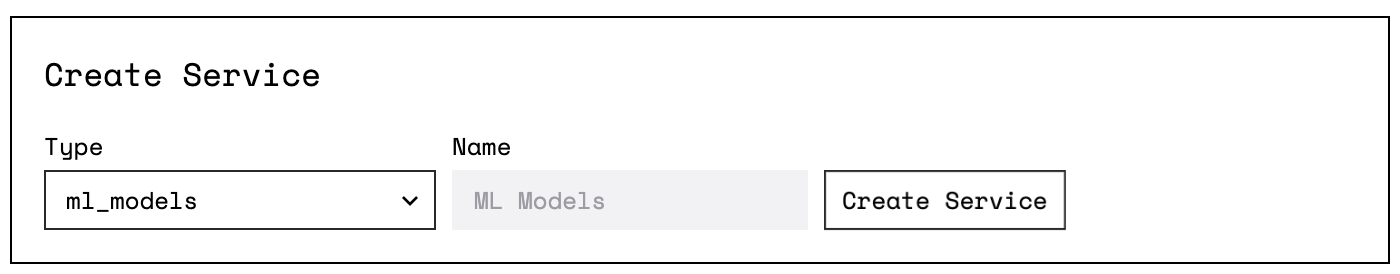
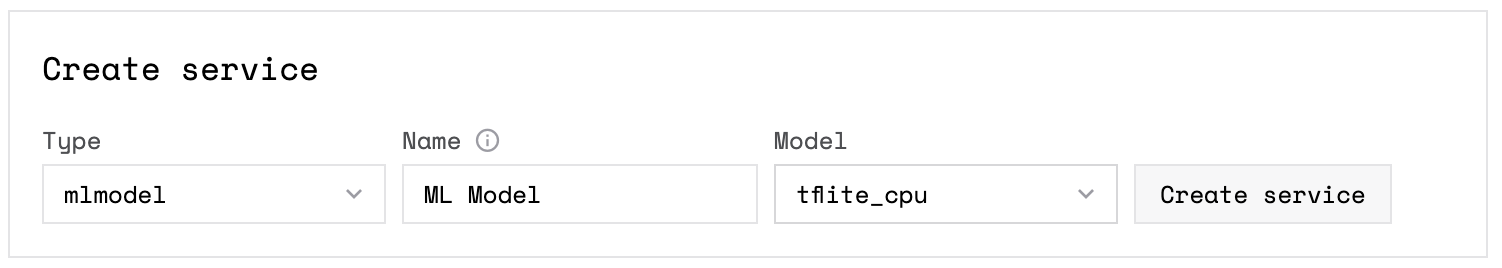
Update ML service

diff --git a/docs/services/ml/_index.md b/docs/services/ml/_index.md
@@ -16,17 +16,32 @@ The ML Models service allows you to deploy machine learning models to your robot
 
 Navigate to your robot's [**config** tab](https://app.viam.com/robot) and click on the **Services** subtab.
 
-Scroll to the bottom and create a new service with the **Type** `mlmodel`.
+Scroll to the bottom and create a new service with the **Type** `mlmodel` and the **Model** `tflite_cpu`.
 
 ![Create a machine learning models service](../img/ml-models-service.png)
 
-The created ML Models panel lists all available models that you have [trained](../../manage/ml/train-model/) or [uploaded](../../manage/ml/upload-model/).
+You can choose to configure your service with an existing model on the robot or deploy a model onto your robot:
 
-![Create a machine learning models service](../img/available-models.png)
+{{< tabs >}}
+{{% tab name="Existing Model" %}}
 
-To add a model to your robot, select it and click on the move right button.
+To configure your service with an existing model on the robot, select **Path to Existing Model On Robot** for the **Deployment** field.
 
-![Create a machine learning models service](../img/added-model.png)
+Then specify the **Model Path** and any **Optional Settings** such as the **Label Path** and the **Number of threads**.
+
+![Create a machine learning models service with an existing model](../img/available-models.png)
+
+{{% /tab %}}
+{{% tab name="Deploy Model" %}}
+
+To configure your service and deploy a model onto your robot, select **Deploy Model On Robot** for the **Deployment** field.
+
+Then select the **Models** and any **Optional Settings** such as the **Number of threads**.
+
+![Create a machine learning models service with a model to be deployed](../img/deploy-model.png)
+
+{{% /tab %}}
+{{< /tabs >}}
 
 Save the configuration and your model will be added to your robot at <file>$HOME/.viam/packages/\<model-name\>/\<file-name\></file>.
 
